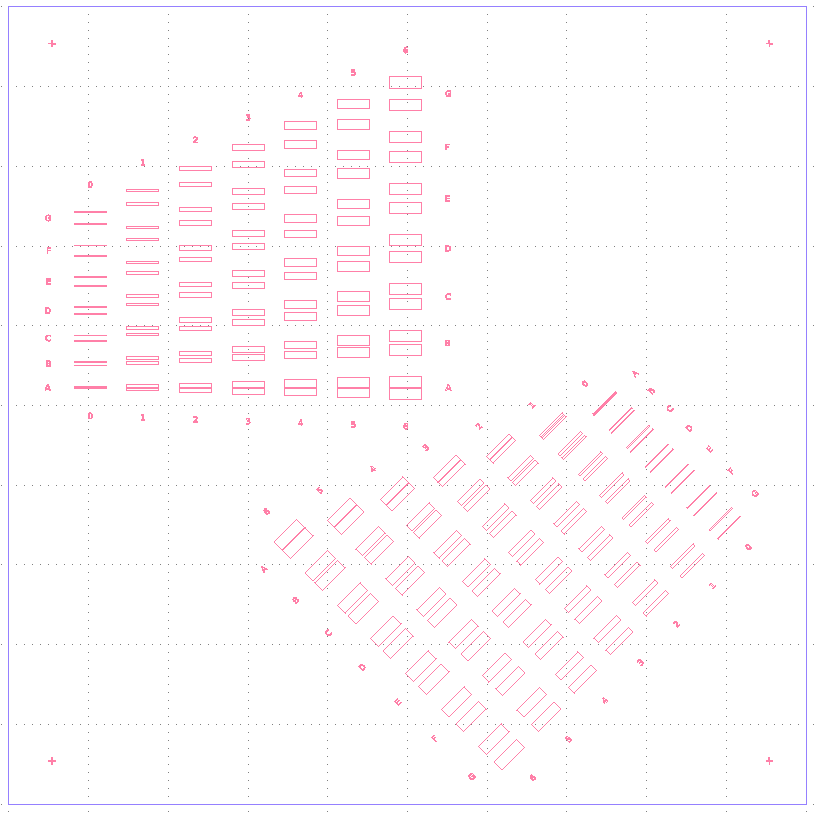
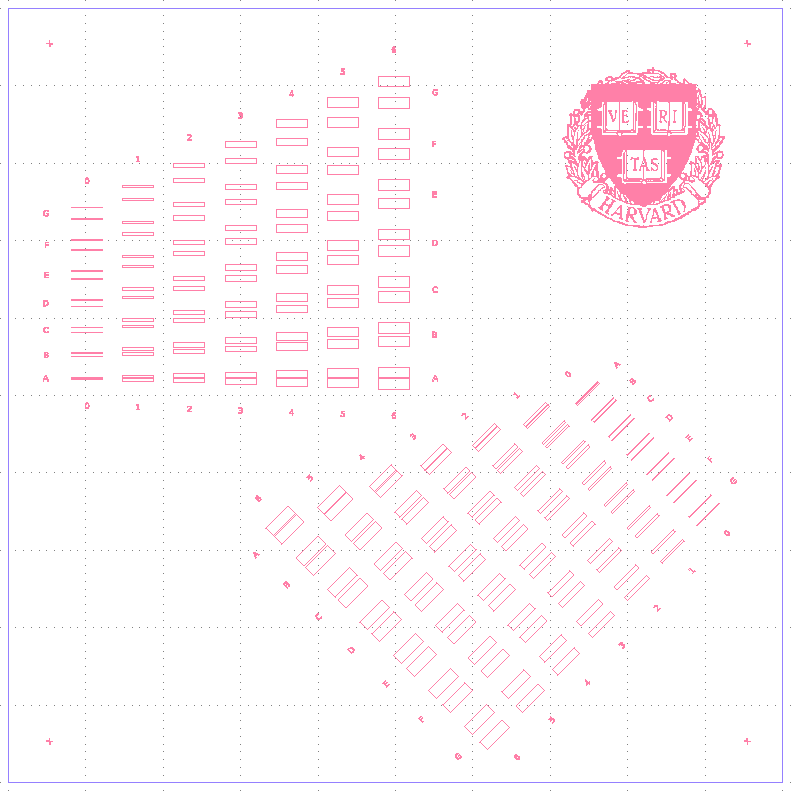
Implemented image rendering functionality.

diff --git a/sividl/example.py b/sividl/example.py
@@ -11,87 +11,124 @@ import sividl_devices as sivp
 # ==============================================================================
 
 
-# Setup writefield.
-writefield_parameters = {
-    'bounding_box_size'     : 500,
-    'bounding_box_layer'    : 255,
-    'positive'              : True,
-    'alignment_layer'       : 1,
-    'alignment_offset_dx'   : 25,
-    'alignment_offset_dy'   : 25,
-}
+def run_example():
+    # Setup writefield.
+    writefield_parameters = {
+        'bounding_box_size'     : 500,
+        'bounding_box_layer'    : 255,
+        'positive'              : True,
+        'alignment_layer'       : 1,
+        'alignment_offset_dx'   : 25,
+        'alignment_offset_dy'   : 25,
+    }
 
-# Generate Writefield.
-write_field = sivp.WriteFieldCrossAligmentMark(writefield_parameters)
+    # Generate Writefield.
+    write_field = sivp.WriteFieldCrossAligmentMark(writefield_parameters)
 
-# Initial slab parameters.
-slab_parameters = {
-    'expose_layer'  : 1,
-    'length_slab'   : 20,
-    'width_slit'    : 1,
-    'width_slab'    : 2,
-    'label_layer'   : 254,
-}
+    # Initial slab parameters.
+    slab_parameters = {
+        'expose_layer'  : 1,
+        'length_slab'   : 20,
+        'width_slit'    : 1,
+        'width_slab'    : 2,
+        'label_layer'   : 254,
+    }
 
-# Setup sweep parameters.
-width_slab_min = 0.5
-width_slab_max = 7
-num_iter_slab_widths = 7
+    # Setup sweep parameters.
+    width_slab_min = 0.5
+    width_slab_max = 7
+    num_iter_slab_widths = 7
 
-width_slit_min = 0.5
-width_slit_max = 7
-num_iter_slit_widths = 7
+    width_slit_min = 0.5
+    width_slit_max = 7
+    num_iter_slit_widths = 7
 
-# Arrays containing different parameters used for 2D sweep.
-slab_widths = np.linspace(width_slab_min, width_slab_max, num_iter_slab_widths)
-slit_widths = np.linspace(width_slit_min, width_slit_max, num_iter_slit_widths)
+    # Arrays containing different parameters used for 2D sweep.
+    slab_widths = np.linspace(
+        width_slab_min,
+        width_slab_max,
+        num_iter_slab_widths
+    )
 
-# We will add a label to the devices, with the following parameters:
-grid_label_params = {
-    'label_layer'   : 1,
-    'textsize'      : 5,
-    'font'          : 'normal',
-    'label_dist'    : 15,
-    'revert_numbers': False,
-    'revert_letters': False
-}
+    slit_widths = np.linspace(
+        width_slit_min,
+        width_slit_max,
+        num_iter_slit_widths
+    )
 
-# Sweep parameters fully specify the labelled 2D sweep.
-sweep_params = {
-    'device_params'     : slab_parameters,
-    'sweep_name'        : 'horizontal_sweep',
-    'device_class'      : sivp.EtchSlap,
-    'varsx'             : slab_widths,
-    'varsy'             : slit_widths,
-    'keyx'              : 'width_slab',
-    'keyy'              : 'width_slit',
-    'pitchx'            : 13,
-    'pitchy'            : 13,
-    'grid_label'        : True,
-    'grid_label_params' : grid_label_params
-}
+    # We will add a label to the devices, with the following parameters:
+    grid_label_params = {
+        'label_layer'   : 1,
+        'textsize'      : 5,
+        'font'          : 'normal',
+        'label_dist'    : 15,
+        'revert_numbers': False,
+        'revert_letters': False
+    }
 
-# Generate sweep in horizontal direction.
-sweep_box_horizontal = sivp.EquidistantRectangularSweep(sweep_params)
+    # Sweep parameters fully specify the labelled 2D sweep.
+    sweep_params = {
+        'device_params'     : slab_parameters,
+        'sweep_name'        : 'horizontal_sweep',
+        'device_class'      : sivp.EtchSlap,
+        'varsx'             : slab_widths,
+        'varsy'             : slit_widths,
+        'keyx'              : 'width_slab',
+        'keyy'              : 'width_slit',
+        'pitchx'            : 13,
+        'pitchy'            : 13,
+        'grid_label'        : True,
+        'grid_label_params' : grid_label_params
+    }
 
-# Mirror device and sweep in vertical direction.
+    # Generate sweep in horizontal direction.
+    sweep_box_horizontal = sivp.EquidistantRectangularSweep(sweep_params)
 
-# Mirror sweep by reversing the order of sweep parameters.
-sweep_params['sweep_name'] = 'vertical_sweep'
-sweep_params['varsx'] = sweep_params['varsx'][::-1]
-sweep_params['varsy'] = sweep_params['varsy'][::-1]
+    # Mirror device and sweep in vertical direction.
 
-# Reverse lettering order to match labelling of horizontal array.
-grid_label_params['revert_numbers'] = True
-grid_label_params['revert_letters'] = True
-sweep_params['grid_label_params'] = grid_label_params
+    # Mirror sweep by reversing the order of sweep parameters.
+    sweep_params['sweep_name'] = 'vertical_sweep'
+    sweep_params['varsx'] = sweep_params['varsx'][::-1]
+    sweep_params['varsy'] = sweep_params['varsy'][::-1]
 
-# Generate sweep in horizontal direction.
-sweep_box_vertical = sivp.EquidistantRectangularSweep(sweep_params)
+    # Reverse lettering order to match labelling of horizontal array.
+    grid_label_params['revert_numbers'] = True
+    grid_label_params['revert_letters'] = True
+    sweep_params['grid_label_params'] = grid_label_params
 
-# Add two sweeps to write field and move accordingly.
-write_field << sweep_box_horizontal.move([-100, +105])
-write_field << sweep_box_vertical.rotate(45).move([+65, -80])
+    # Generate sweep in horizontal direction.
+    sweep_box_vertical = sivp.EquidistantRectangularSweep(sweep_params)
 
-# Export as GDS file.
-write_field.write_gds('example.gds')
+    # Add two sweeps to write field and move accordingly.
+    write_field << sweep_box_horizontal.move([-100, +105])
+    write_field << sweep_box_vertical.rotate(45).move([+65, -80])
+
+    # For fun, add a picture of the Harvard Logo to the empty space
+    picture_parameters = {
+        'name'          : 'image',
+        'image'         : 'staticfiles/harvard_logo.jpeg',
+        'threshold'     : 140,
+        'pixel_size'    : 0.5,
+        'layer'         : 1
+    }
+
+    image = sivp.ImageArray(picture_parameters).move([-160, 160]).rotate(-90)
+    write_field << image
+
+    # Export as GDS file.
+    write_field.write_gds('example.gds')
+
+
+if __name__ == "__main__":
+    run_example()
+
+
+def test_run_example():
+    """Pytest launcher for example test.
+
+    This pytest will run the example and throw will fail if example
+    code is thothrowing an error.
+
+    TODO: Extend these tests.
+    """
+    run_example()

diff --git a/sividl/sividl_devices.py b/sividl/sividl_devices.py
@@ -9,6 +9,7 @@
 #   - Write field with alignment marker
 #   - Etch slabs
 #   - Generator of rectangular labelled parameter sweeps
+#   - Representation of images as pixel array
 #
 # Note that all dimensions are in micrometer.
 # ==============================================================================
@@ -23,7 +24,7 @@ from matplotlib.font_manager import FontProperties
 import numpy as np
 from phidl import Device
 import phidl.geometry as pg
-from sividl_utils import render_text
+from sividl_utils import image_to_binary_bitmap, render_text
 
 
 class SividdleDevice(Device):
@@ -434,6 +435,57 @@ class EquidistantRectangularSweep(SividdleDevice):
                     )
 
             self << new_device.move([padding_x[i, j], padding_y[i, j]])
+
+        # Shift center of bounding box to origin.
+        self.center = [0, 0]
+
+
+class ImageArray(SividdleDevice):
+    """Transforms a color image to BW array and generates an according pattern.
+
+    Parameters
+    ----------
+    params: dict
+        Dictionary containing setting
+    params['name']: string
+        Name of GDS cell.
+    params['image']: string
+        Path to image
+    params['threshold']: int
+        Threshold from 0 - 255 separating black from white
+    params['pixel_size']: int
+        Physical size of one pixel on the design in um.
+    params['layer']: int
+        Layer where picture will be displayed.
+    """
+
+    def __init__(self, params):
+
+        SividdleDevice.__init__(self, name=params['name'])
+
+        # Generate binary bitmap out of image
+        bitmap = image_to_binary_bitmap(params['image'], params['threshold'])
+        x_image = bitmap.shape[0]
+        y_image = bitmap.shape[1]
+
+        # Define pixel polygon
+        pixel = pg.rectangle(
+            size=(
+                params['pixel_size'],
+                params['pixel_size']
+            ),
+            layer=params['layer']
+        )
+
+        for x in range(x_image):
+            for y in range(y_image):
+                if bitmap[x, y] == 1:
+                    self << pg.copy(pixel).move(
+                        (
+                            x * params['pixel_size'],
+                            y * params['pixel_size']
+                        )
+                    )
 
         # Shift center of bounding box to origin.
         self.center = [0, 0]

diff --git a/sividl/sividl_utils.py b/sividl/sividl_utils.py
@@ -1,5 +1,8 @@
 import gdspy
 from matplotlib.textpath import TextPath
+import numpy as np
+from PIL import Image
+
 
 # ==============================================================================
 # sividl.utils -
@@ -46,3 +49,31 @@ def render_text(text, size=None, position=(0, 0),
                 xmax = max(xmax, poly[:, 0].max())
                 polys.append(poly)
     return polys
+
+
+def image_to_binary_bitmap(filename, threshhold):
+    """Convert image into binary array.
+
+    From:
+    https://stackoverflow.com/questions/50494541/bw-image-to-binary-array
+
+    Parameters
+    ----------
+    filename: string
+        Filename of the image.
+    threshhold: int
+        Value from 0-255 separating the white
+        from the dark pixels.
+
+    Return
+    ----------
+    bitmap: numpy.array
+        Binary bitmap of the array.
+    """
+    img = Image.open(filename).convert('L')
+    np_img = np.array(img)
+    np_img = ~np_img  # invert B&W
+    np_img[np_img <= threshhold] = 0
+    np_img[np_img > threshhold] = 1
+
+    return np_img
